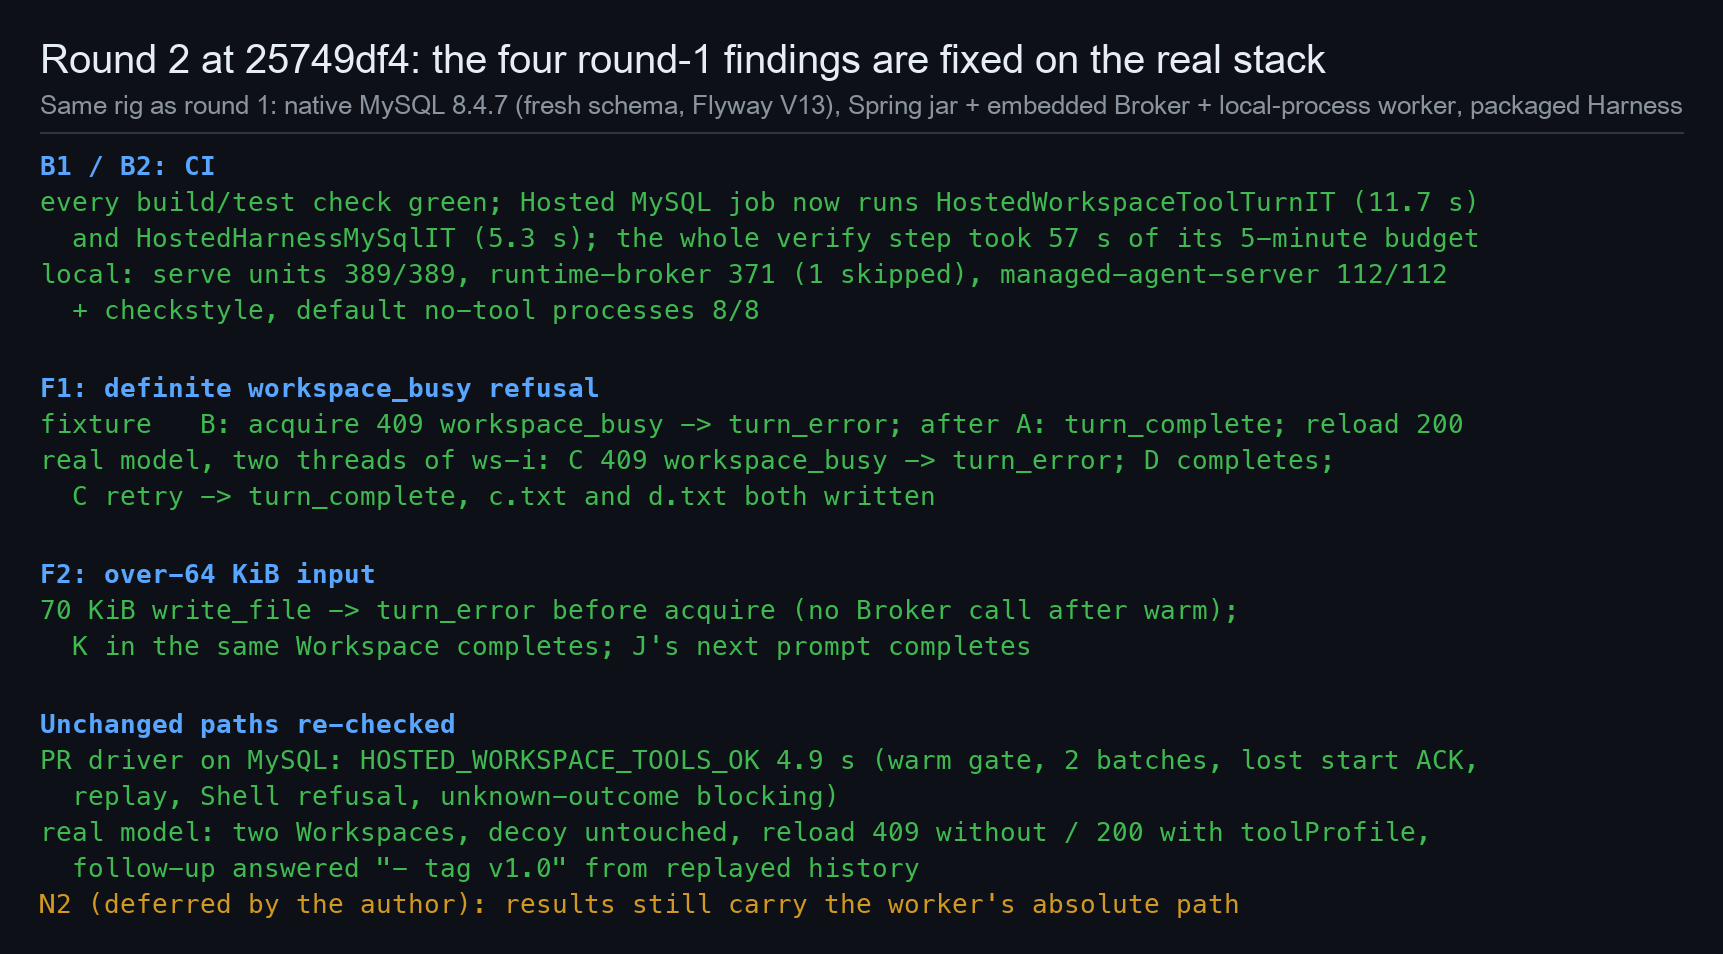
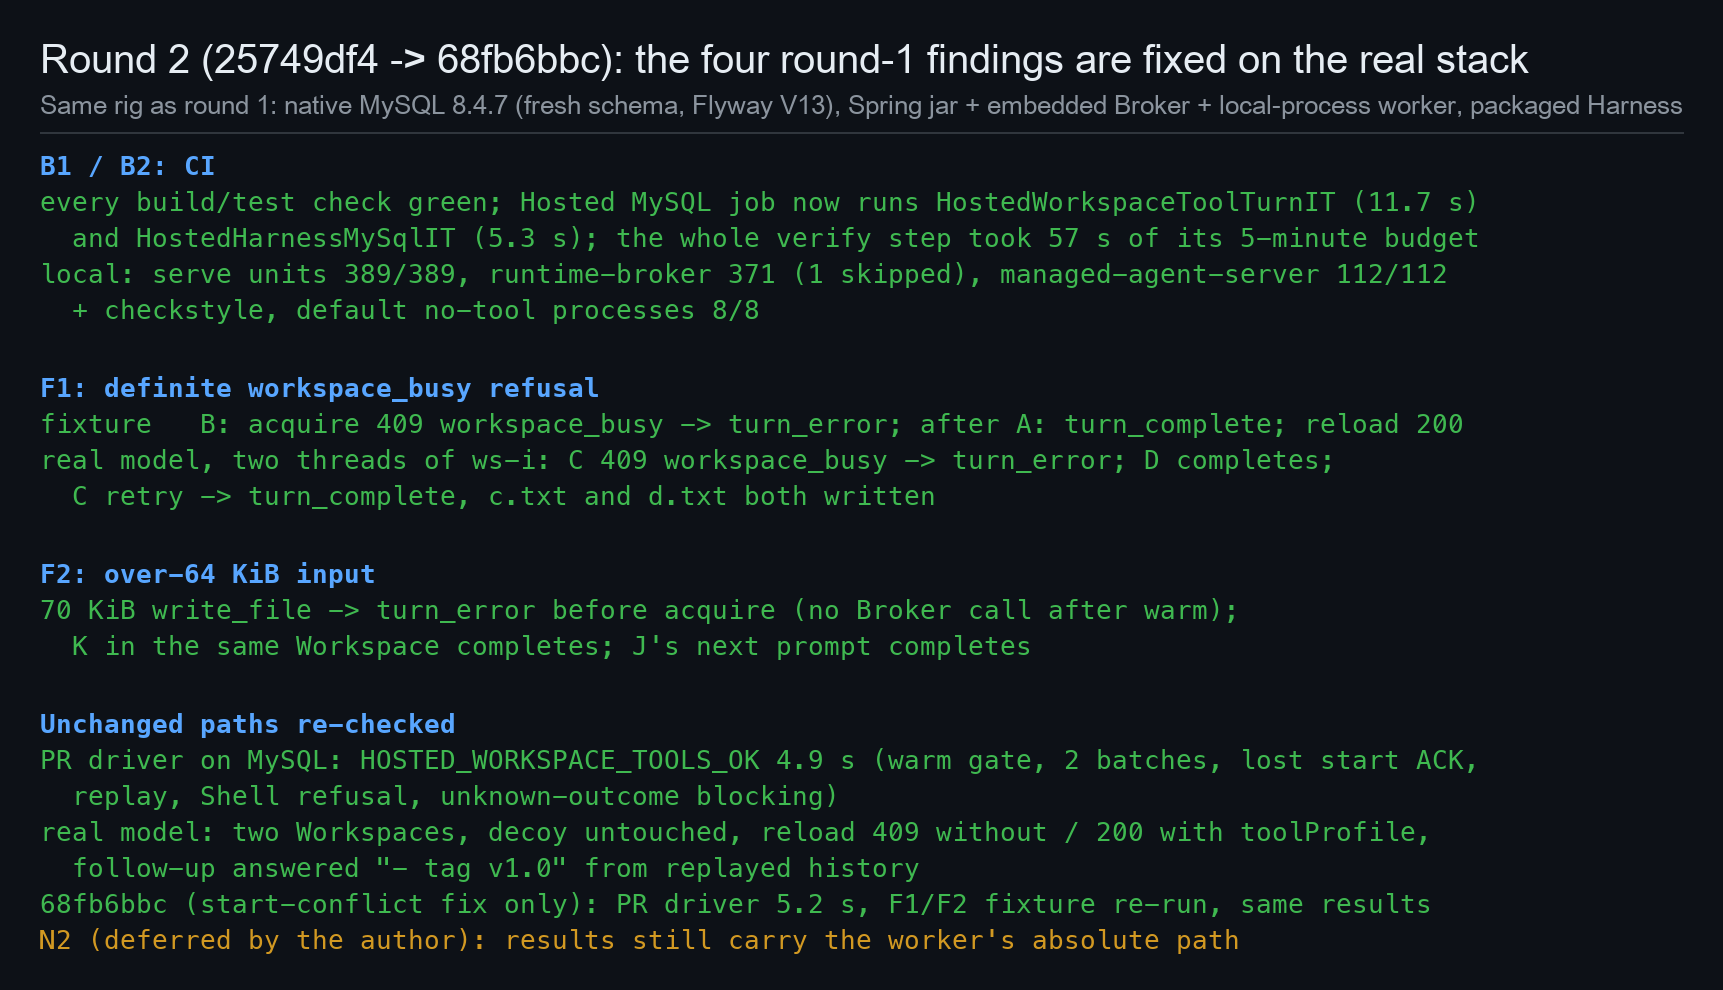
PR #12831 round-2 evidence at 68fb6bbc

Changed region(s): [[0.0, 0.5776, 0.8613, 0.9727], [0.0, 0.0304, 0.9843, 0.3344], [0.0, 0.3648, 0.8613, 0.5472]]

diff --git a/pr12831/harness-r2/logs-68fb6bbc/README.md b/pr12831/harness-r2/logs-68fb6bbc/README.md
@@ -1,0 +1,2 @@
+Logs from head 68fb6bbc (start-conflict follow-up) and from candidate-r3 rebased on it.
+`s7-r2-probes-cand2-*` here is the rebased candidate (cand3). The 25749df4 logs are in `../logs/`.
